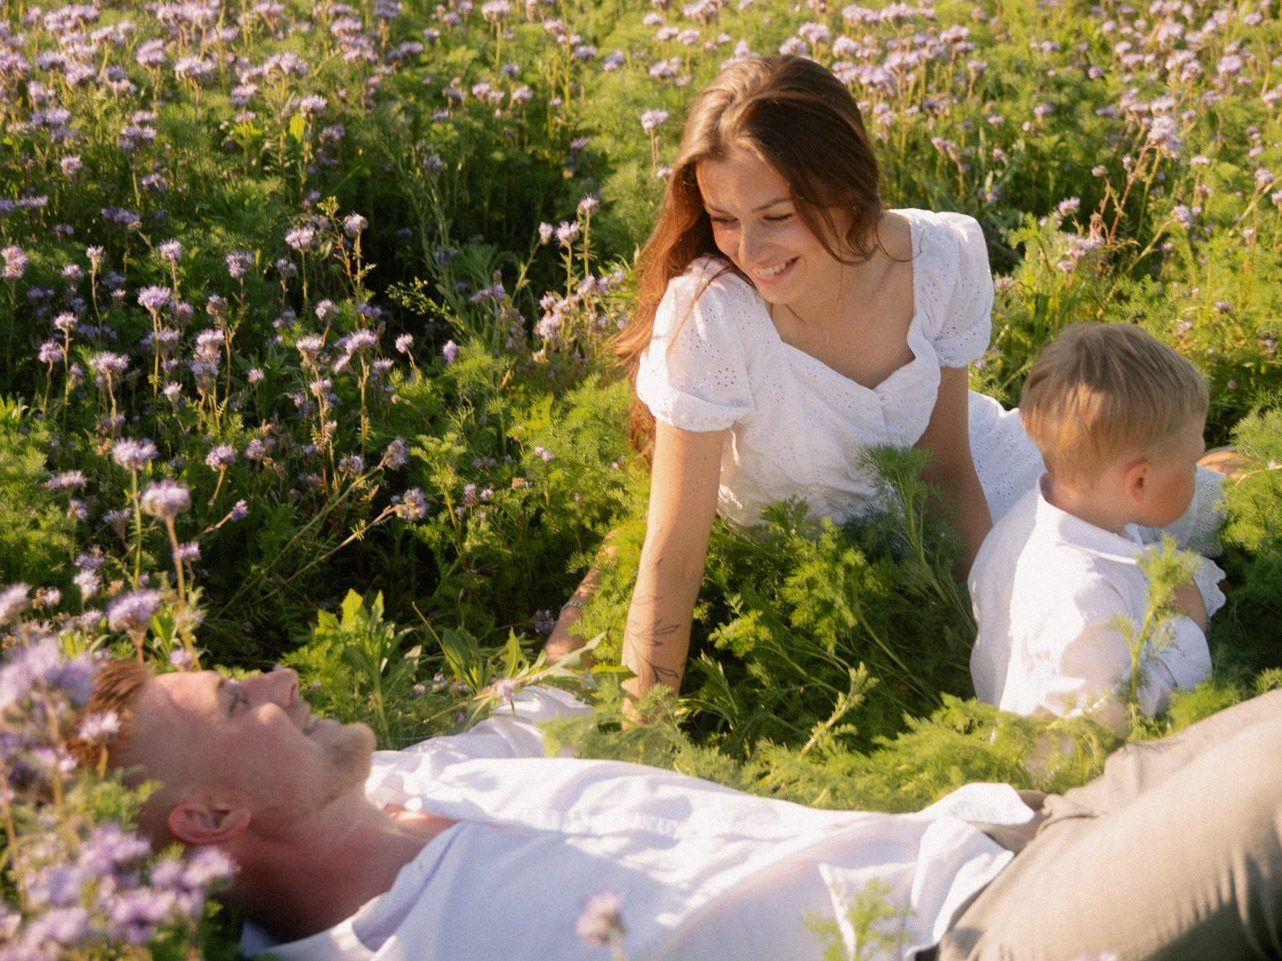
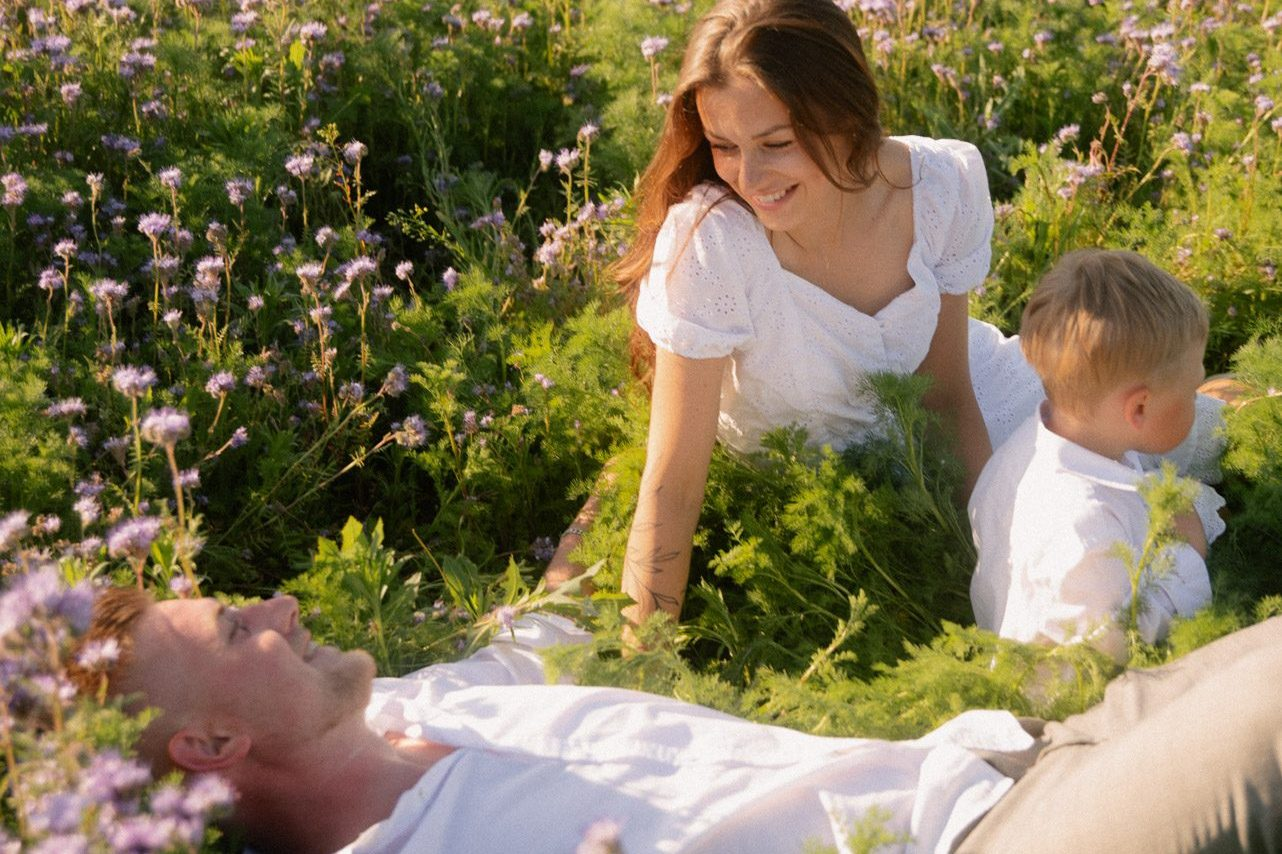
Portréty koláž: dole rodina v kvetoucí louce
Claude-Session: https://claude.ai/code/session_016HTqx8dDCp26739Zdiumey

diff --git a/portrety.html b/portrety.html
@@ -94,7 +94,7 @@
             <img class="c3" loading="lazy" src='fotky_portrety/rodinne-foceni-doma-na-gauci.jpg' alt='Rodiče s miminkem na zeleném gauči doma, rodinné focení'>
             <img class="c7" loading="lazy" src='fotky_portrety/tehotenske-rodinne-foceni-ve-studiu.jpg' alt='Ruce budoucích rodičů na bříšku, černobílé těhotenské focení ve studiu'>
             <img class="c4" loading="lazy" src='fotky_portrety/zensky-portret-studio-bila-bunda.jpg' alt='Žena v bílé bundě sedí ve studiu, černobílý ženský portrét'>
-            <img class="c5" loading="lazy" src='fotky_portrety/rodinne-foceni-v-lese-se-psy.jpg' alt='Velká rodina se psy na procházce v lese, rodinné focení Brno'>
+            <img class="c5" loading="lazy" src='fotky_portrety/rodinne-foceni-v-kvetouci-louce.jpg' alt='Rodina s malým klukem leží v kvetoucí louce, rodinné focení venku'>
             <img class="c6" loading="lazy" src='fotky_portrety/detail-paru-v-objeti-na-louce.jpg' alt='Detail páru v objetí na louce, párové focení v pohybu'>
         </div>
     </section>
